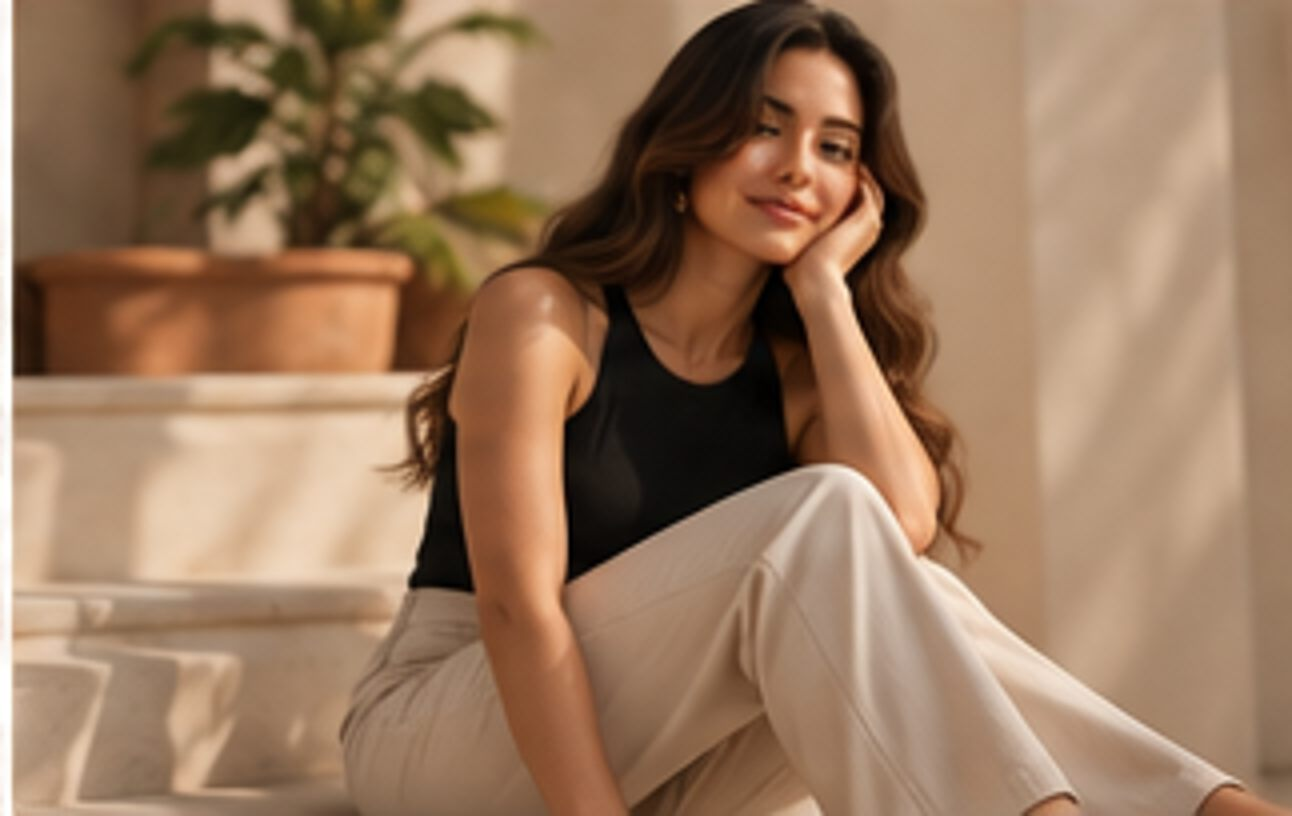
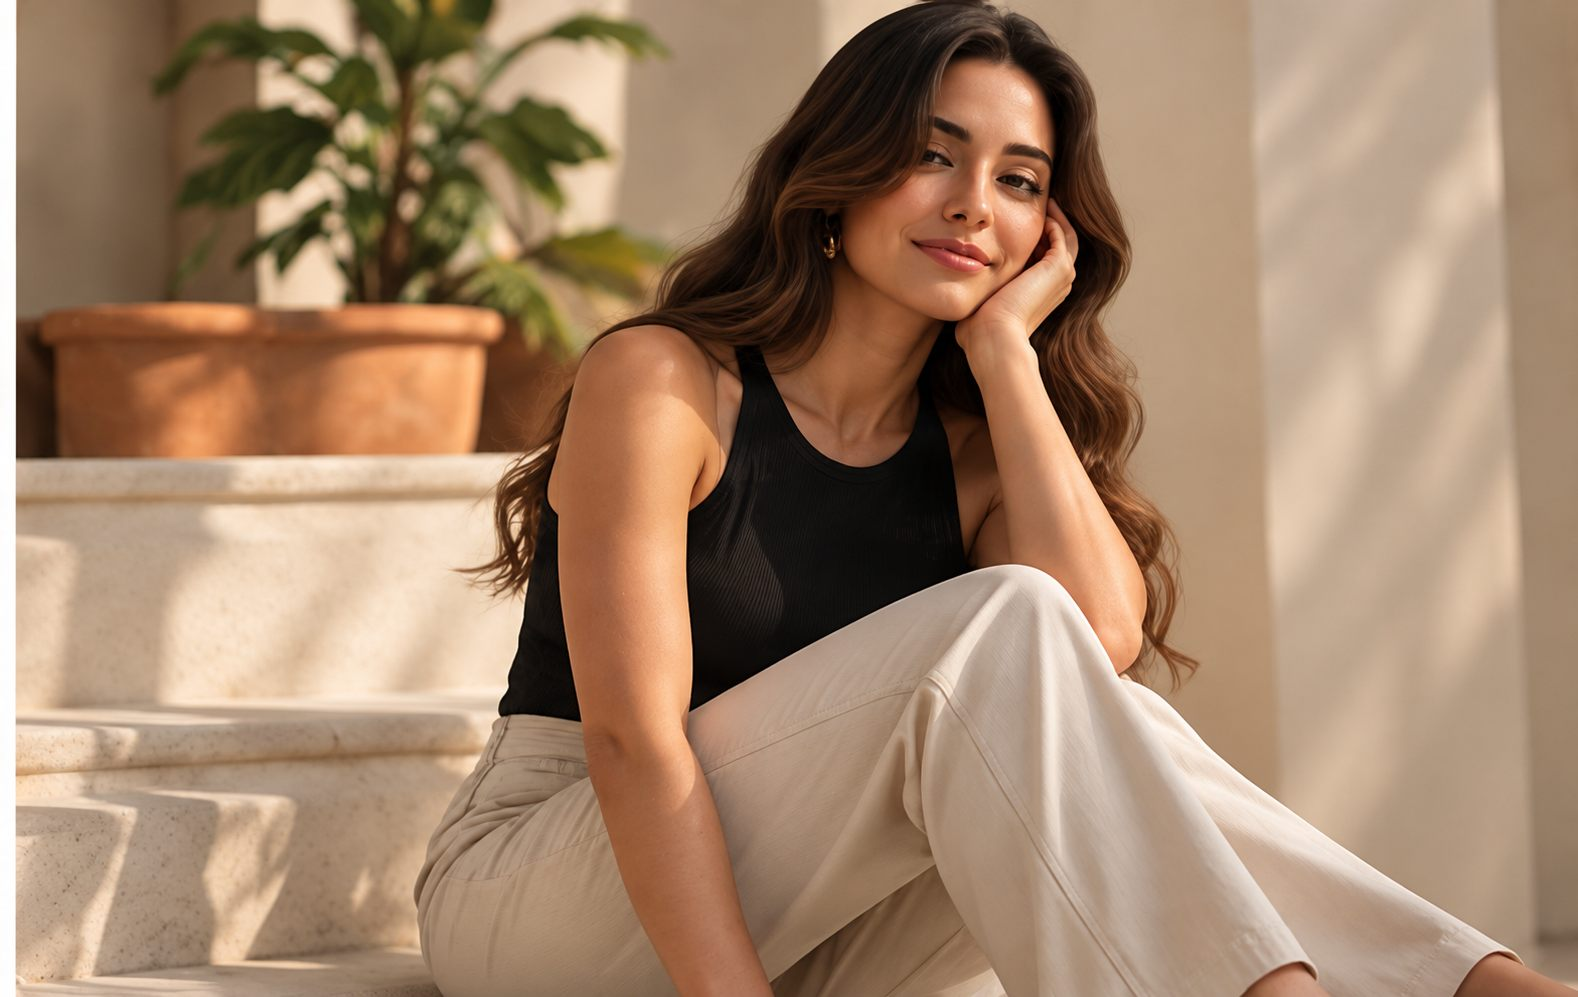
img: cta em alta

diff --git a/index.html b/index.html
@@ -348,7 +348,7 @@ nav a:hover::after{transform:scaleX(1);transform-origin:left}
 </section>
 
 <section class="cta">
-  <img src="img/cta.jpg" alt="">
+  <img src="img/cta.jpg?v=2" alt="">
   <div class="cta-inner">
     <img class="cta-logo" src="img/logo.svg" alt="">
     <h2>Calças para quem vai longe.</h2>
